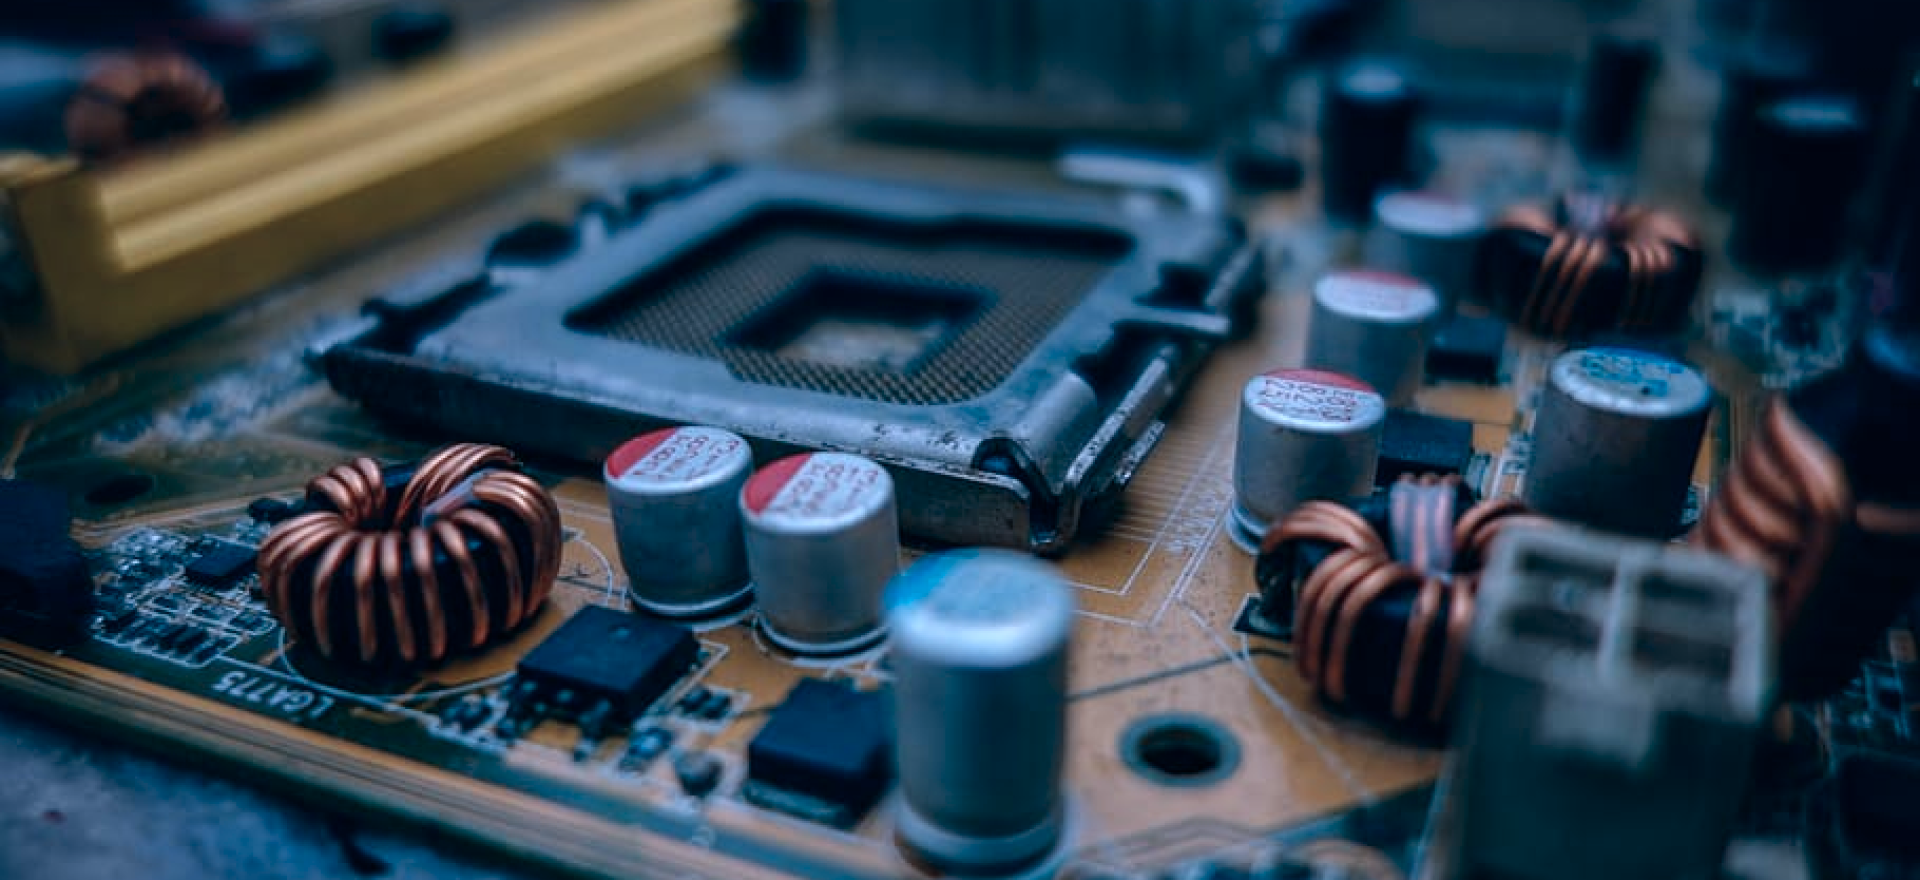
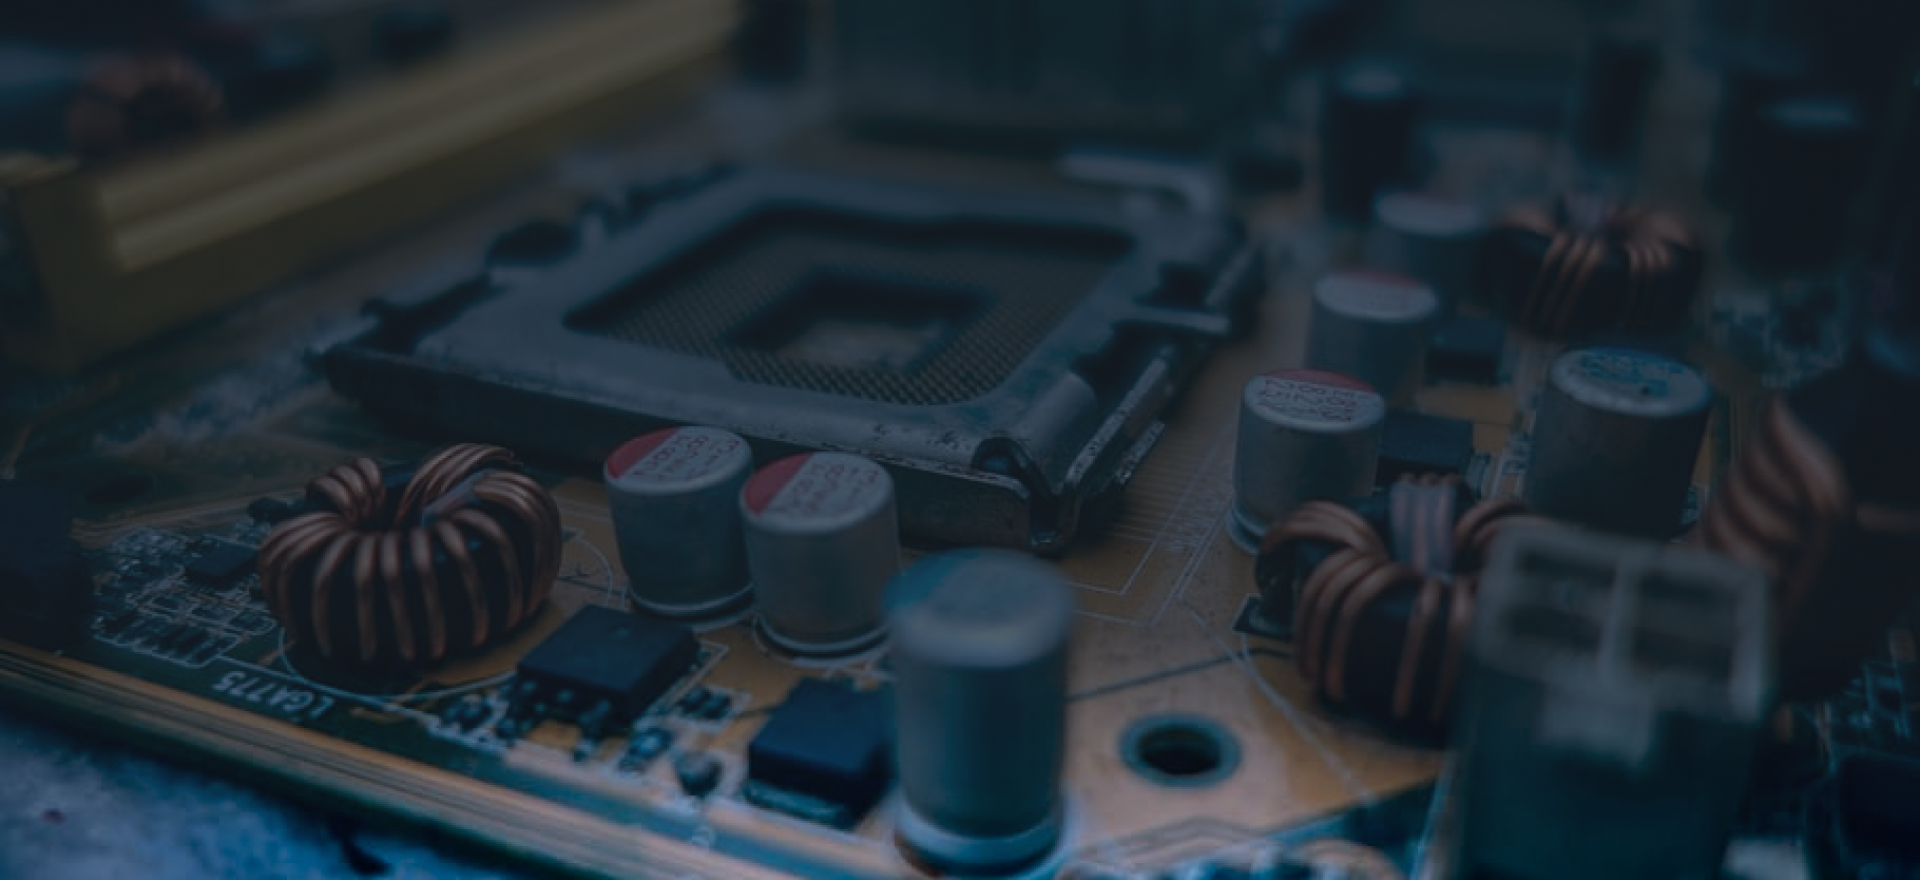
Планшетный вариант по ПП

diff --git a/source/index.html b/source/index.html
@@ -81,7 +81,7 @@
                 <path d="M24.336 31.8021C26.2206 31.8021 27.7539 30.0088 27.7539 27.805C27.7539 27.3635 27.4479 27.0056 27.0703 27.0056C26.6927 27.0056 26.3867 27.3635 26.3867 27.805C26.3867 29.1272 25.4668 30.2033 24.336 30.2033C23.9584 30.2033 23.6524 30.5612 23.6524 31.0027C23.6524 31.444 23.9584 31.8021 24.336 31.8021Z" fill="currentColor"/>
               </svg>
               <p class="advantages__item-name">Полная конфиденциальность</p>
-              <p class="advantages__item-description">По желанию клиента мы обеспечивам полную конфиденциальность.</p>
+              <p class="advantages__item-description">По желанию клиента мы обеспечиваем полную конфиденциальность.</p>
             </li>
             <li class="advantages__item">
               <svg class="advantages__icon" width="35" height="35" viewBox="0 0 35 35" fill="currentColor" xmlns="http://www.w3.org/2000/svg">
@@ -92,8 +92,8 @@
                 <path d="M15.3717 25.0115L11.8607 21.4999C11.5937 21.2332 11.161 21.233 10.8939 21.4999C10.6269 21.7669 10.6269 22.1998 10.8939 22.4669L14.4049 25.9785C14.5385 26.112 14.7134 26.1788 14.8883 26.1788C15.0632 26.1788 15.2382 26.112 15.3717 25.9785C15.6386 25.7115 15.6386 25.2786 15.3717 25.0115Z" fill="currentColor"/>
                 <path d="M9.98793 19.627C9.86085 19.4999 9.6851 19.4266 9.5047 19.4266C9.32491 19.4266 9.14923 19.4998 9.0214 19.627C8.89425 19.7541 8.82111 19.9305 8.82111 20.111C8.82111 20.2908 8.89418 20.4672 9.0214 20.5944C9.14855 20.7216 9.32491 20.7947 9.5047 20.7947C9.68517 20.7947 9.86085 20.7216 9.98793 20.5944C10.1158 20.4665 10.1889 20.2908 10.1889 20.111C10.1889 19.9305 10.1158 19.7548 9.98793 19.627Z" fill="currentColor"/>
               </svg>
-              <p class="advantages__item-name">Персонализация стоимости</p>
-              <p class="advantages__item-description">Мы подбираем определенную фабрику, поставщиков, вид доставки, чтобы установить ту цену, которая Вас устраивает.</p>
+              <p class="advantages__item-name advantages__item-name--price">Персонализация стоимости</p>
+              <p class="advantages__item-description  advantages__item-description--price">Мы подбираем определенную фабрику, поставщиков, вид доставки, чтобы установить ту цену, которая Вас устраивает.</p>
             </li>
           </ul>
         </div>
@@ -103,7 +103,7 @@
         <div class="about__wrapper">
           <h3 class="about__title">О компании</h3>
           <p class="about__description">Мы поставляем электронные комплектующие, производим печатные платы и предоставляем мировые технологии c 1997 года. Выполняем срочные заказы и пилотные образцы до 10 дней.</p>
-          <p class="about__description">Наши поставщики - мировые производители электронных компонентов: OSRAM, CREE, HOLGLITRONIC, REFOND. Печатные платы и комплектующие Service Devices применяются на предприятиях Российских Железных Дорог(РЖД), РоссАвтоПрома (ВАЗ, АвтоГАЗ), МинАтома, СпецМедТехники. Среди наших клиентов крупнейшие Производители светотехники России.</p>
+          <p class="about__description">Наши поставщики - мировые производители электронных компонентов: OSRAM, CREE, HOLGLITRONIC, REFOND. Печатные платы и комплектующие Service Devices применяются на предприятиях Российских Железных Дорог (РЖД), РоссАвтоПрома (ВАЗ, АвтоГАЗ), МинАтома, СпецМедТехники. Среди наших клиентов крупнейшие Производители светотехники России.</p>
           <p class="about__description about__description--extra about__description--hidden">Smart Device - это команда профессионалов. Через нас прошло более 1 000 000 клиентов, 70% из которых продолжают сотрудничество по сей день. На данный момент насчитывается более 14 офисов по всей стране и 20 городов присутствия. Мы стремимся к постоянному развитию и повышению уровня качества продукции, производимой внутри компании. Использование инновационных технологий помогает экономить деньги и время наших клиентов.</p>
           <button class="about__button" type="button" data-show-more="show-more">Подробнее</button>
         </div>

diff --git a/source/sass/blocks/main/feedback.scss b/source/sass/blocks/main/feedback.scss
@@ -27,7 +27,7 @@
   }
 
   @media (max-width: $vp-1023) {
-    padding: 50px 6.5% 125px 6.5%;
+    padding: 47px 6.5% 125px 6.5%;
     background: none;
   }
 
@@ -44,6 +44,10 @@
   line-height: 51px;
   margin: 0 0 15px 0;
 
+  @media (max-width: $vp-1023) {
+    margin: 0 0 6px 0;
+  }
+
   @media (max-width: $vp-767) {
     font-size: 30px;
     line-height: 42px;
@@ -57,6 +61,10 @@
   color: #ffffff;
   line-height: 22px;
   margin: 0 0 35px 0;
+
+  @media (max-width: $vp-1023) {
+    margin: 0 0 25px 0;
+  }
 
   @media (max-width: $vp-767) {
     font-size: 14px;
@@ -89,6 +97,8 @@
 }
 
 .feedback__input {
+  font-family: "PT Mono", "Arial", sans-serif;
+  color: #ffffff;
   border: none;
   width: 100%;
   min-width: 225px;
@@ -99,7 +109,6 @@
   font-weight: 400;
   font-size: 16px;
   line-height: 22px;
-  color: #FFFFFF;
 
   &::placeholder {
     color: #ffffff;
@@ -116,6 +125,7 @@
 }
 
 .feedback__textarea {
+  font-family: "PT Mono", "Arial", sans-serif;
   border: none;
   width: 100%;
   max-width: 580px;
@@ -137,6 +147,7 @@
   @media (max-width: $vp-1023) {
     max-width: 780px;
     margin-bottom: 15px;
+    padding: 30px 15px;
   }
 
   @media (max-width: $vp-767) {
@@ -169,6 +180,12 @@
   background-color: #041427;
   border-radius: 3px;
   cursor: pointer;
+
+  @media (max-width: $vp-1023) {
+    padding: 16px 59px 10px 59px;
+    max-width: 265px;
+    margin-top: -7px;
+  }
 }
 
 .feedback__checkbox-mark {
@@ -202,4 +219,8 @@
   color: #ffffff;
   opacity: 0.8;
   padding: 0 0 0 20px;
+
+  @media (max-width: $vp-1023) {
+    padding: 0 0 0 25px;
+  }
 }

diff --git a/source/sass/blocks/main/advantages.scss b/source/sass/blocks/main/advantages.scss
@@ -18,7 +18,7 @@
   margin: 0 auto;
 
   @media (max-width: $vp-1023) {
-    padding: 120px 6.5% 60px 6.5%;
+    padding: 80px 6.5% 60px 6.5%;
   }
 
   @media (max-width: $vp-767) {
@@ -34,6 +34,10 @@
   grid-template-columns: 1fr 1fr;
   gap: 30px;
 
+  @media (max-width: $vp-1023) {
+    // gap: 28px 30px;
+  }
+
   @media (max-width: $vp-767) {
     display: flex;
     flex-direction: column;
@@ -48,7 +52,8 @@
   color: #00b2ff;
 
   @media (max-width: $vp-1023) {
-    padding: 35px 30px 35px 45px;
+    padding: 38px 35px 30px 41px;
+    min-height: 360px;
   }
 
   @media (max-width: $vp-767) {
@@ -63,6 +68,12 @@
   }
 }
 
+.advantages__icon {
+  @media (max-width: $vp-1023) {
+    margin: 0 0 8px 0;
+  }
+}
+
 .advantages__item-name {
   font-family: "Roboto Condensed", "Arial", sans-serif;
   color: #00b2ff;
@@ -71,9 +82,21 @@
   line-height: 34px;
   margin: 0 0 15px 0;
 
+  @media (max-width: $vp-1023) {
+    margin: 0 0 11px 0;
+  }
+
   @media (max-width: $vp-767) {
     font-size: 20px;
     line-height: 28px;
+  }
+}
+
+.advantages__item-name--price {
+  @media (min-width: $vp-767) {
+    @media (max-width: $vp-1023) {
+      margin: 0 0 2px 0;
+    }
   }
 }
 
@@ -81,7 +104,7 @@
   font-family: "PT Mono", "Arial", sans-serif;
   font-weight: 400;
   font-size: 16px;
-  line-height: 22px;
+  line-height: 135%;
   color: #041827;
   margin: 0;
 

diff --git a/source/sass/blocks/main/welcome.scss b/source/sass/blocks/main/welcome.scss
@@ -2,11 +2,13 @@
   width: 100vw;
   min-width: $vp-1024;
   max-width: 2600px;
-  background: linear-gradient(180deg, rgba(25, 32, 36, 0.7) 71.72%, #192024 100%), url("../img/welcome-background.png");
+  background: url("../img/welcome-background.png");
   background-position: center;
 
   @media (max-width: $vp-1023) {
+    background: url("../img/tablet/welcome-background.png");
     min-width: 768px;
+    background-size: 100%;
   }
 
   @media (max-width: $vp-767) {
@@ -20,7 +22,7 @@
   padding: 305px 12% 280px 24.7%;
 
   @media (max-width: $vp-1023) {
-    padding: 180px 6.5% 200px 6.5%;
+    padding: 180px 6.5% 204px 6.5%;
   }
 
   @media (max-width: $vp-767) {
@@ -41,6 +43,7 @@
   @media (max-width: $vp-1023) {
     font-size: 64px;
     line-height: 75px;
+    margin: 0;
   }
 
   @media (max-width: $vp-767) {
@@ -57,6 +60,10 @@
   font-weight: 400;
   text-transform: lowercase;
   margin: 0 0 40px 0;
+
+  @media (max-width: $vp-1023) {
+    margin: 0 0 58px 0;
+  }
 
   @media (max-width: $vp-767) {
     font-size: 14px;
@@ -77,6 +84,11 @@
   padding: 15px 25px;
   background-color: #00b2ff;
   border-radius: 3px;
+
+  @media (max-width: $vp-1023) {
+    margin: 0 0 0 45px;
+    padding: 17px 27px;
+  }
 
   @media (max-width: $vp-767) {
     display: none;

diff --git a/source/sass/blocks/main/about.scss b/source/sass/blocks/main/about.scss
@@ -19,8 +19,8 @@
   background: url("../img/year2022.png") 19% 50px no-repeat;
 
   @media (max-width: $vp-1023) {
-    padding: 10px 6.5% 80px 29.3%;
-    background-position: 6% 10px;
+    padding: 15px 6.5% 80px 29.3%;
+    background-position: 7% 20px;
   }
 
   @media (max-width: $vp-767) {
@@ -37,6 +37,10 @@
   color: #041827;
   margin: 0 0 15px 0;
 
+  @media (max-width: $vp-1023) {
+    margin: 0 0 13px 0;
+  }
+
   @media (max-width: $vp-767) {
     margin: 0 0 15px 0;
   }
@@ -49,10 +53,6 @@
   line-height: 22px;
   color: #041827;
   margin: 0 0 15px 0;
-
-  @media (max-width: $vp-767) {
-    margin: 0 0 15px 0;
-  }
 }
 
 .about__description--hidden {
@@ -75,6 +75,11 @@
   border: 1px solid #00b2ff;
   border-radius: 3px;
   cursor: pointer;
+
+  @media (max-width: $vp-1023) {
+    margin: 5px 0 0 0;
+    padding: 14px 50px 14px 50px;
+  }
 
   @media (max-width: $vp-767) {
     margin: 0;

diff --git a/source/sass/blocks/main/catalog.scss b/source/sass/blocks/main/catalog.scss
@@ -19,7 +19,7 @@
   padding: 70px 10% 70px 18%;
 
   @media (max-width: $vp-1023) {
-    padding: 60px 6.5%;
+    padding: 55px 6.5% 75px 6.5%;
   }
 
   @media (max-width: $vp-767) {
@@ -33,6 +33,10 @@
   font-weight: 400;
   font-size: 36px;
   line-height: 51px;
+
+  @media (max-width: $vp-1023) {
+    margin: 0 0 35px 0;
+  }
 
   @media (max-width: $vp-767) {
     display: none;
@@ -159,7 +163,7 @@
   }
 
   @media (max-width: $vp-1023) {
-    padding: 40px 74% 150px 6.8%;
+    padding: 40px 76% 150px 6.8%;
   }
 
   @media (max-width: 900px) {
@@ -180,8 +184,11 @@
   width: 170px;
   display: block;
 
-  @media (max-width: $vp-767) {
+  @media (max-width: $vp-1023) {
     width: 150px;
+  }
+
+  @media (max-width: $vp-767) {
     font-size: 18px;
   }
 }

diff --git a/source/sass/blocks/header/header.scss b/source/sass/blocks/header/header.scss
@@ -58,7 +58,7 @@
   }
 
   @media (max-width: $vp-1023) {
-    margin: 0 33.8% 0 0;
+    margin: 0 51% 0 0;
   }
 }
 
@@ -72,10 +72,20 @@
   @media (max-width: 1180px) {
     margin: 0 5% 0 0;
   }
+
+  @media (max-width: $vp-1023) {
+    margin: 0;
+  }
 }
 
 .header__icon-link {
   margin: 0 5px 0 0;
+}
+
+.header__email + .header__icon-link {
+  @media (max-width: $vp-1023) {
+    margin: 0;
+  }
 }
 
 .header__email {

diff --git a/source/sass/blocks/footer/footer.scss b/source/sass/blocks/footer/footer.scss
@@ -35,7 +35,7 @@
   margin: 0 9.1% 0 0;
 
   @media (max-width: $vp-1023) {
-    margin: 0 0 37px 0;
+    margin: 0 0 35px 0;
   }
 
   @media (max-width: $vp-767) {
@@ -48,7 +48,7 @@
   margin: 1% 2.4% 0 0;
 
   @media (max-width: $vp-1023) {
-    margin: 0 12.5% 0 0;
+    margin: 0 12.8% 0 0;
   }
 
   @media (max-width: $vp-767) {
